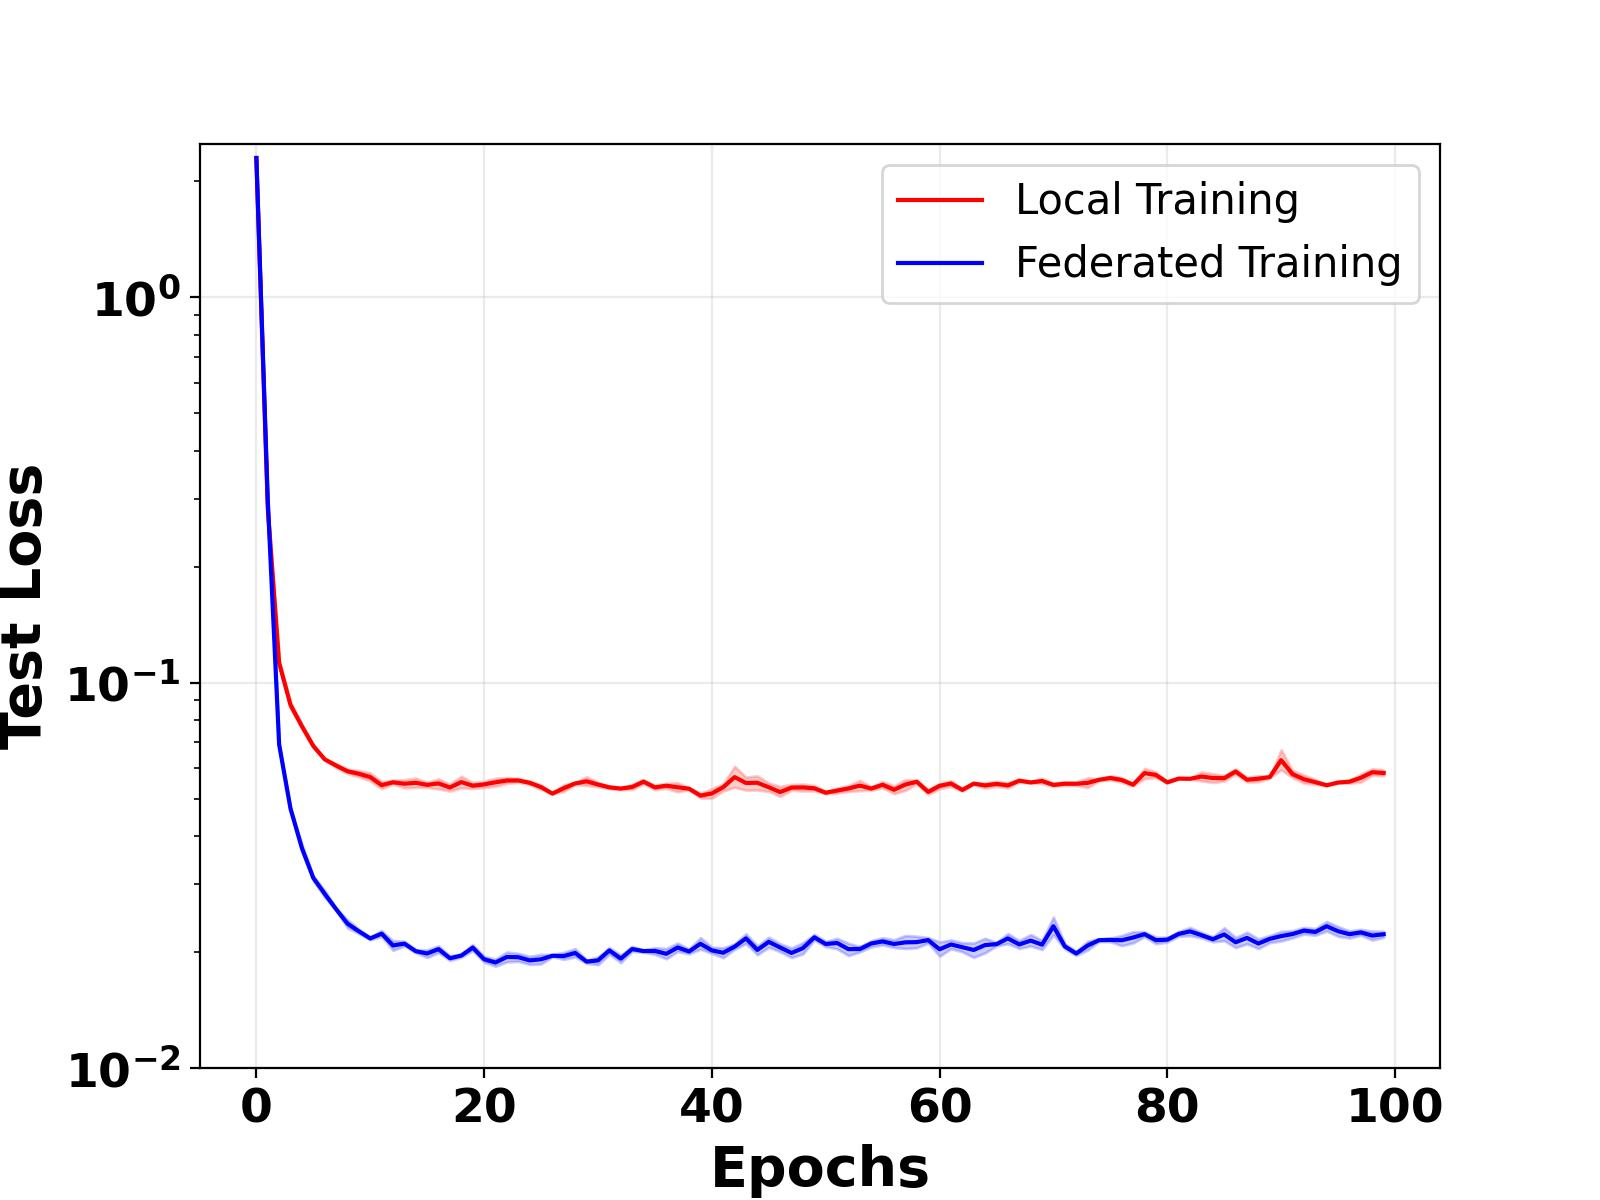
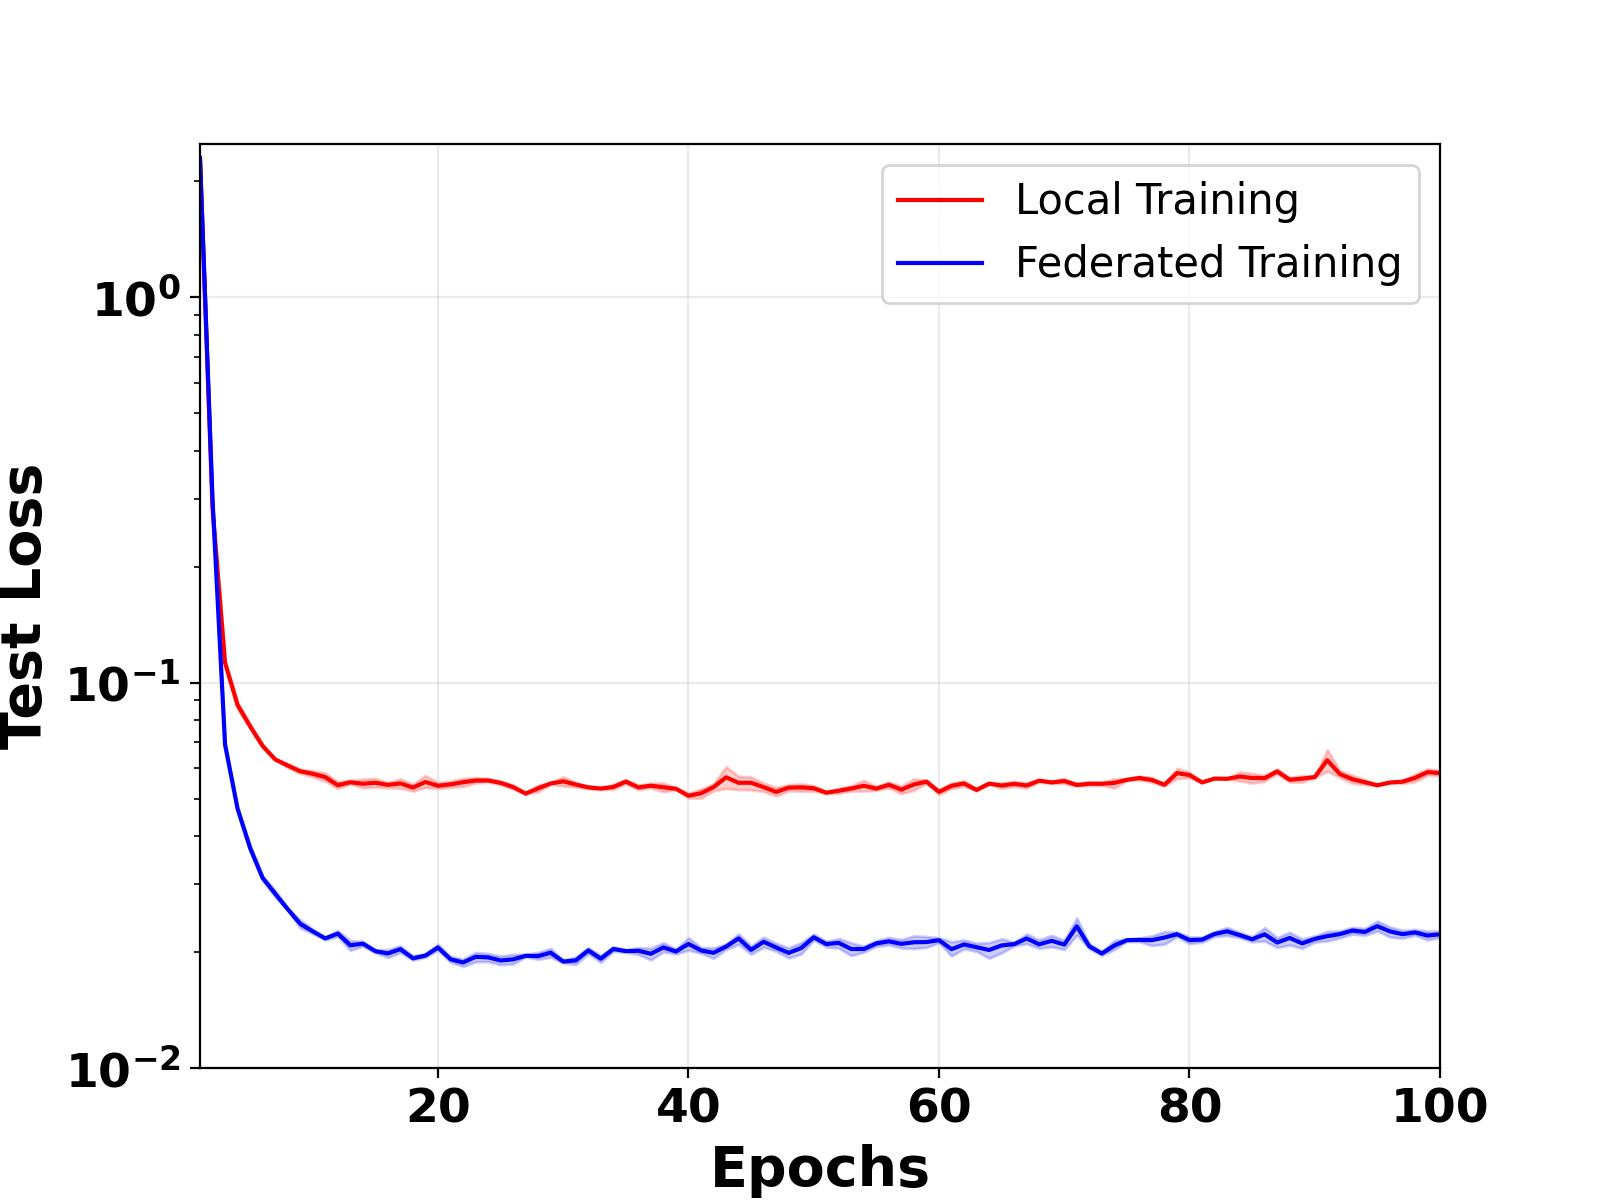
fix axis on loss/acc plots

diff --git a/experiments.py b/experiments.py
@@ -225,12 +225,12 @@ class Postprocessing:
         plt.figure(figsize=(8, 6))
 
         # local
-        plt.plot(range(epochs), y_mean_local, color='r', label='Local Training')
-        plt.fill_between(range(epochs), y_min_local, y_max_local, alpha=0.2, color='r')
+        plt.plot(range(1, epochs+1), y_mean_local, color='r', label='Local Training')
+        plt.fill_between(range(1, epochs+1), y_min_local, y_max_local, alpha=0.2, color='r')
 
         # fed
-        plt.plot(range(epochs), y_mean_fed, color='b', label='Federated Training')
-        plt.fill_between(range(epochs), y_min_fed, y_max_fed, alpha=0.2, color='b')
+        plt.plot(range(1, epochs+1), y_mean_fed, color='b', label='Federated Training')
+        plt.fill_between(range(1, epochs+1), y_min_fed, y_max_fed, alpha=0.2, color='b')
 
         plt.xlabel('Epochs', fontsize=20, weight='bold')
         if loss:
@@ -246,6 +246,7 @@ class Postprocessing:
         elif loss and dataset.lower() == 'cifar10':
             plt.ylim([0, 1.25 * 10**2])
             plt.yscale("symlog")
+        plt.xlim([1, epochs])
         plt.grid(alpha=0.25)
 
         # save figure
@@ -399,6 +400,13 @@ if __name__ == '__main__':
     # loss plots
     pp.run_loss_plot(ham_random_path_iid, save_file='iid', runs=3, loss=False)
     pp.run_loss_plot(ham_random_path_iid, save_file='iid', runs=3, loss=True)
+
+    # pp.run_loss_plot(cifar10_random_path_iid, save_file='iid', runs=3, loss=False)
+    # pp.run_loss_plot(cifar10_random_path_iid, save_file='iid', runs=3, loss=True)
+    # pp.run_loss_plot(cifar10_random_path_noniid6, save_file='noniid6', runs=3, loss=False)
+    # pp.run_loss_plot(cifar10_random_path_noniid6, save_file='noniid6', runs=3, loss=True)
+    # pp.run_loss_plot(cifar10_random_path_noniid3, save_file='noniid3', runs=3, loss=False)
+    # pp.run_loss_plot(cifar10_random_path_noniid3, save_file='noniid3', runs=3, loss=True)
 
     # loss histogram and truthfulness plots
     pp.run_loss_histogram(ham_random_path_iid, save_file='iid', runs=3)
